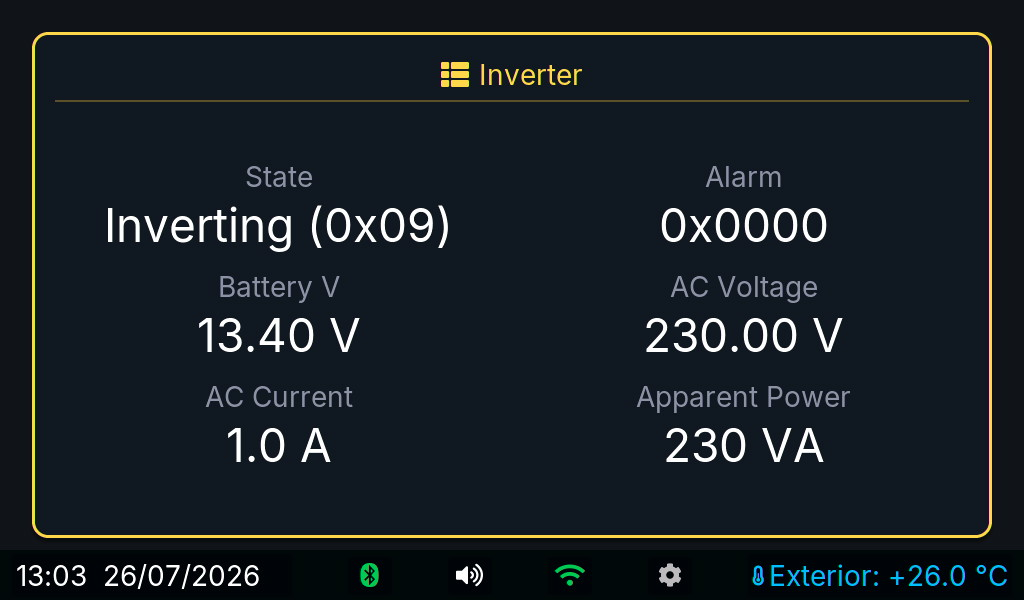
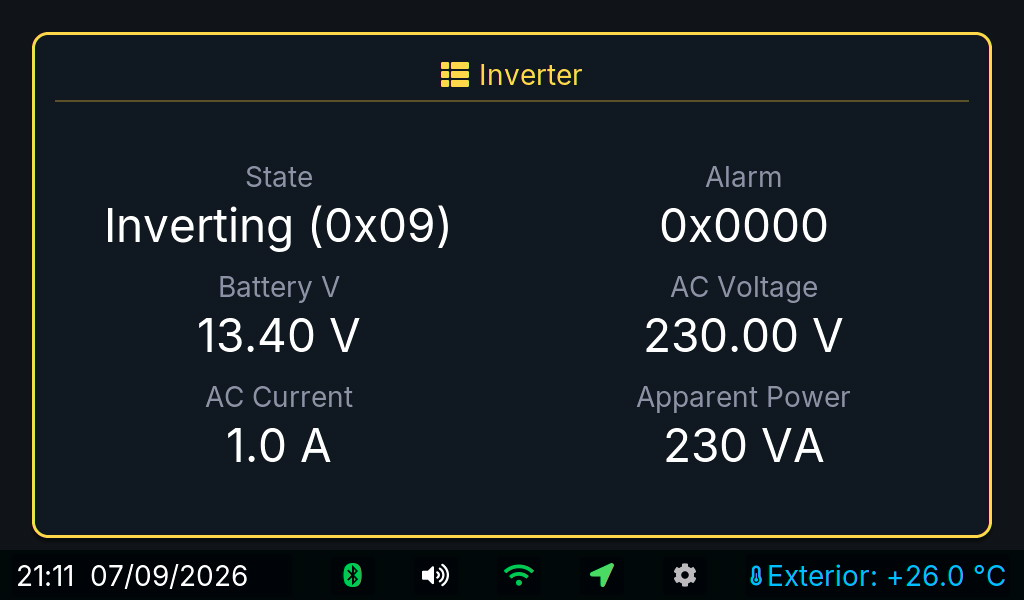
docs: capturas al dia (24 pantallas, incluye GPS) y quitar wifi/victron_keys del manual
Set nuevo de la P4 de reserva con el arreglo de nombres del carrusel: entra
GPS (antes ni se guardaba con su nombre), sale el desplazamiento de "Acerca
de". Wi-Fi y Victron Keys siguen sin capturarse (mismo motivo de siempre:
credenciales/claves en claro).

De paso, dos cosas encontradas revisando el manual:
- 16_wifi.jpg llevaba publicado en GitHub desde julio con la contrasena REAL
  del portal estricto en claro (username/password visibles). Ya rotada por
  el usuario; quitada la imagen y sustituida por una nota, igual que ya hace
  el propio carrusel de capturas del firmware con esa pantalla.
- 21_victron_keys.jpg no llevaba ninguna clave real (pantalla vacia, sin
  dispositivos dados de alta) pero se quita igual por el mismo motivo: en
  cuanto haya un dispositivo configurado, esa captura si las enseñaria.
- El rango `/captura?n=<0..22>` del README (ES+EN) estaba desactualizado:
  con GPS son 24 pantallas (0..23).
- Anadida la captura de GPS al manual, que ya tenia el texto escrito pero
  sin imagen (el bug de nombres nunca dejo generar una).

Claude-Session: https://claude.ai/code/session_01USED5Y3zZJwwpaMK96aqcQ

diff --git a/README.md b/README.md
@@ -197,7 +197,7 @@ Páginas con cards de borde de color, dropdown scrollable cuando hay overflow, s
 - **Descargas sin sacar la SD**: `/data/frigo.csv` y `/data/bateria.csv` (día en curso), y los `.tar` completos de `/data/frigo.tar`, `/data/bateria.tar`, `/data/logs.tar`, `/data/config.tar`, `/data/capturas.tar` y `/data/vigilancia.tar`.
 - **`/data/ne185v.csv` — log de diagnóstico NE185 vs SmartShunt** (día en curso, sin página ni gráfica). Una muestra por minuto en `/sdcard/ne185v/` con los **bytes 12/13 de la trama NE185 sin convertir** junto al voltaje que da el SmartShunt por BLE. Sirve para deducir por regresión la fórmula real del NE185: la documentada, `V = (raw − 30)/10`, viene del NE334 y **nunca se ha medido** aquí, porque el voltaje se lee del shunt y no de este bus. Columnas: `timestamp,ne_raw_serv,ne_raw_mot,ne_fresh,shunt_centivolts,shunt_fresh` (usar solo las filas con ambos `fresh = 1`).
 - **Actualización por Wi-Fi (OTA)** en `/ota`: se sube el `.bin` desde el navegador, sin cable ni PC.
-- `/snapshot`: última foto de la cámara en JPEG. `/capturas` y `/captura?n=<0..22>`: capturas de las pantallas del propio display.
+- `/snapshot`: última foto de la cámara en JPEG. `/capturas` y `/captura?n=<0..23>`: capturas de las pantallas del propio display.
 - `/keys`: configuración de claves Victron.
 - Sincronización automática de hora (`<img>` GET → `/settime`, compatible captive portal).
 
@@ -385,7 +385,7 @@ Pages with role-coloured cards, scrollbar visible on overflow, separators betwee
 - **Downloads without pulling the SD card**: `/data/frigo.csv` and `/data/bateria.csv` (current day), plus full archives at `/data/frigo.tar`, `/data/bateria.tar`, `/data/logs.tar`, `/data/config.tar`, `/data/capturas.tar` and `/data/vigilancia.tar`.
 - **`/data/ne185v.csv` — NE185 vs SmartShunt diagnostic log** (current day; no page, no chart). One sample per minute under `/sdcard/ne185v/` holding the **raw, unconverted bytes 12/13 of the NE185 frame** next to the battery voltage reported by the SmartShunt over BLE. Its purpose is to derive the NE185's real formula by regression: the documented one, `V = (raw − 30)/10`, is inherited from the NE334 and **has never been measured** here, because voltage is read from the shunt rather than from this bus. Columns: `timestamp,ne_raw_serv,ne_raw_mot,ne_fresh,shunt_centivolts,shunt_fresh` (use only rows where both `fresh = 1`).
 - **Wi-Fi firmware update (OTA)** at `/ota`: upload the `.bin` from the browser — no cable, no PC.
-- `/snapshot`: latest camera frame as JPEG. `/capturas` and `/captura?n=<0..22>`: screenshots of the display's own screens.
+- `/snapshot`: latest camera frame as JPEG. `/capturas` and `/captura?n=<0..23>`: screenshots of the display's own screens.
 - `/keys`: Victron key configuration page.
 - Automatic time sync via `<img>` GET → `/settime` (captive-portal compatible).
 

diff --git a/docs/manual/manual-pantalla.md b/docs/manual/manual-pantalla.md
@@ -108,6 +108,8 @@ Ocho apartados. Vamos uno a uno.
 
 ### GPS
 
+![GPS](../screenshots/22_gps.jpg)
+
 Dice dónde estás y, sobre todo, **pone la pantalla en hora sola**. Arriba, el
 estado con su color y cuántos satélites ve; debajo, la posición y la hora que da
 el GPS, que es exacta.
@@ -132,7 +134,9 @@ buscando (salen bien pero sin datos).
 
 ### Wi-Fi
 
-![Wi-Fi](../screenshots/16_wifi.jpg)
+*(Sin captura a propósito: esta pantalla enseña la contraseña del portal en
+claro — el propio carrusel de capturas la excluye siempre por el mismo
+motivo.)*
 
 La pantalla **crea su propia red**, no se conecta a la tuya. Te conectas a ella con
 el móvil para bajarte datos o actualizarla.
@@ -216,7 +220,8 @@ Aquí se ajusta el ventilador que refrigera la nevera:
 
 ### Victron Keys
 
-![Victron Keys](../screenshots/21_victron_keys.jpg)
+*(Sin captura a propósito: en cuanto hay algún dispositivo dado de alta, aquí
+se ve su clave AES sin ocultar — mismo motivo que en Wi-Fi.)*
 
 Los aparatos Victron (regulador solar, monitor de batería, cargador…) emiten sus
 datos por Bluetooth **cifrados**. Para leerlos hay que darlos de alta con su
@@ -224,7 +229,7 @@ dirección y su clave, que se sacan de la app oficial de Victron.
 
 ### Acerca de
 
-![Acerca de](../screenshots/22_about.jpg)
+![Acerca de](../screenshots/23_about.jpg)
 
 Versión que lleva, cuánto tiempo lleva encendida, su dirección en la red, y el
 botón de reiniciar.
